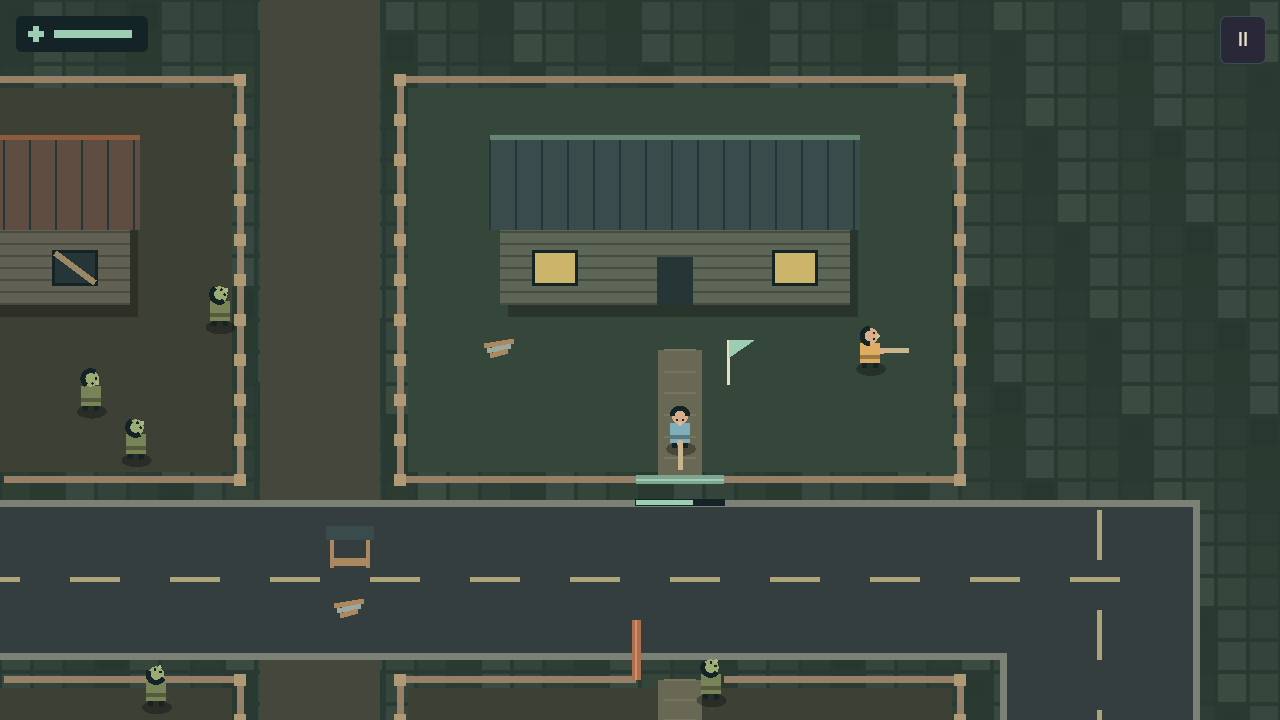
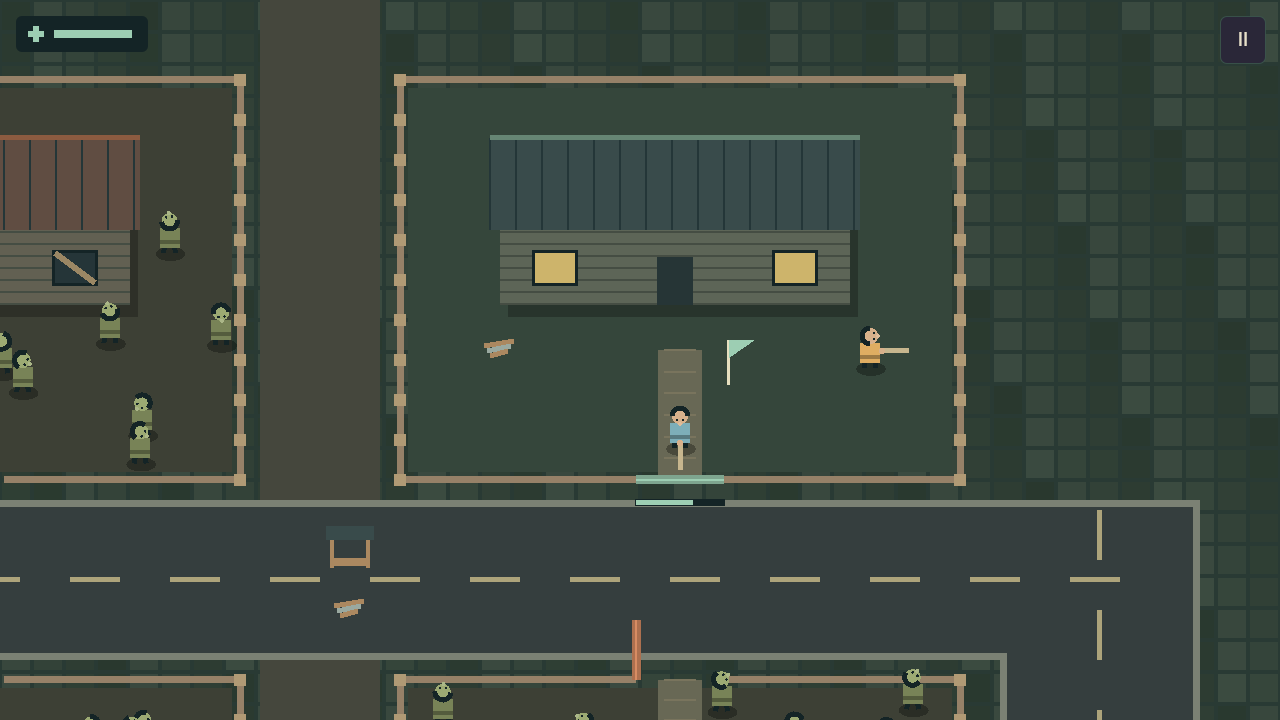
Double the resident zombies in every lot and raise the population cap

diff --git a/docs/PROGRESS.md b/docs/PROGRESS.md
@@ -118,3 +118,11 @@ User feedback: the straight cul-de-sac was still one long street. Reference: San
 ## 29 October 2026: review pass 8 (building a rear gate)
 
 - Added `tools/check_rear_build.gd`: with both lots claimed and materials in hand, standing at the library/corner-house rear gate offers the passage, E approves it, holding work finishes the build, and E then opens it. All pass. Not seen in play: the drawn rear gate and its link text.
+
+## 29 October 2026: double the resident zombies
+
+User feedback: the zombies were not a real danger; taking space should feel like a struggle.
+
+- Every lot's starting zombies and reinforcements are doubled (62 -> 124 residents): each new one is a plain Shambler placed in open yard away from buildings, the gate and its neighbours (seeded, so the layout is stable). Runners and Screechers were not doubled, so no extra call or lunge pressure. `hidden_zombies` (the population raiders refill a lot to) is doubled too, so retaken lots stay twice as full.
+- `living_cap` 96 -> 200, and the validator's upper bound 100 -> 400, to hold the larger population plus migrants.
+- Checked: catalog 0 problems and the save, pressure, boss, travel, ring and passage checks pass; the street is visibly crowded (`docs/verification/street_walk.png`). Not tested: how a real player fares against the doubled yards. Existing saves keep their old residents, since residents are saved; start a new street to see the change.
